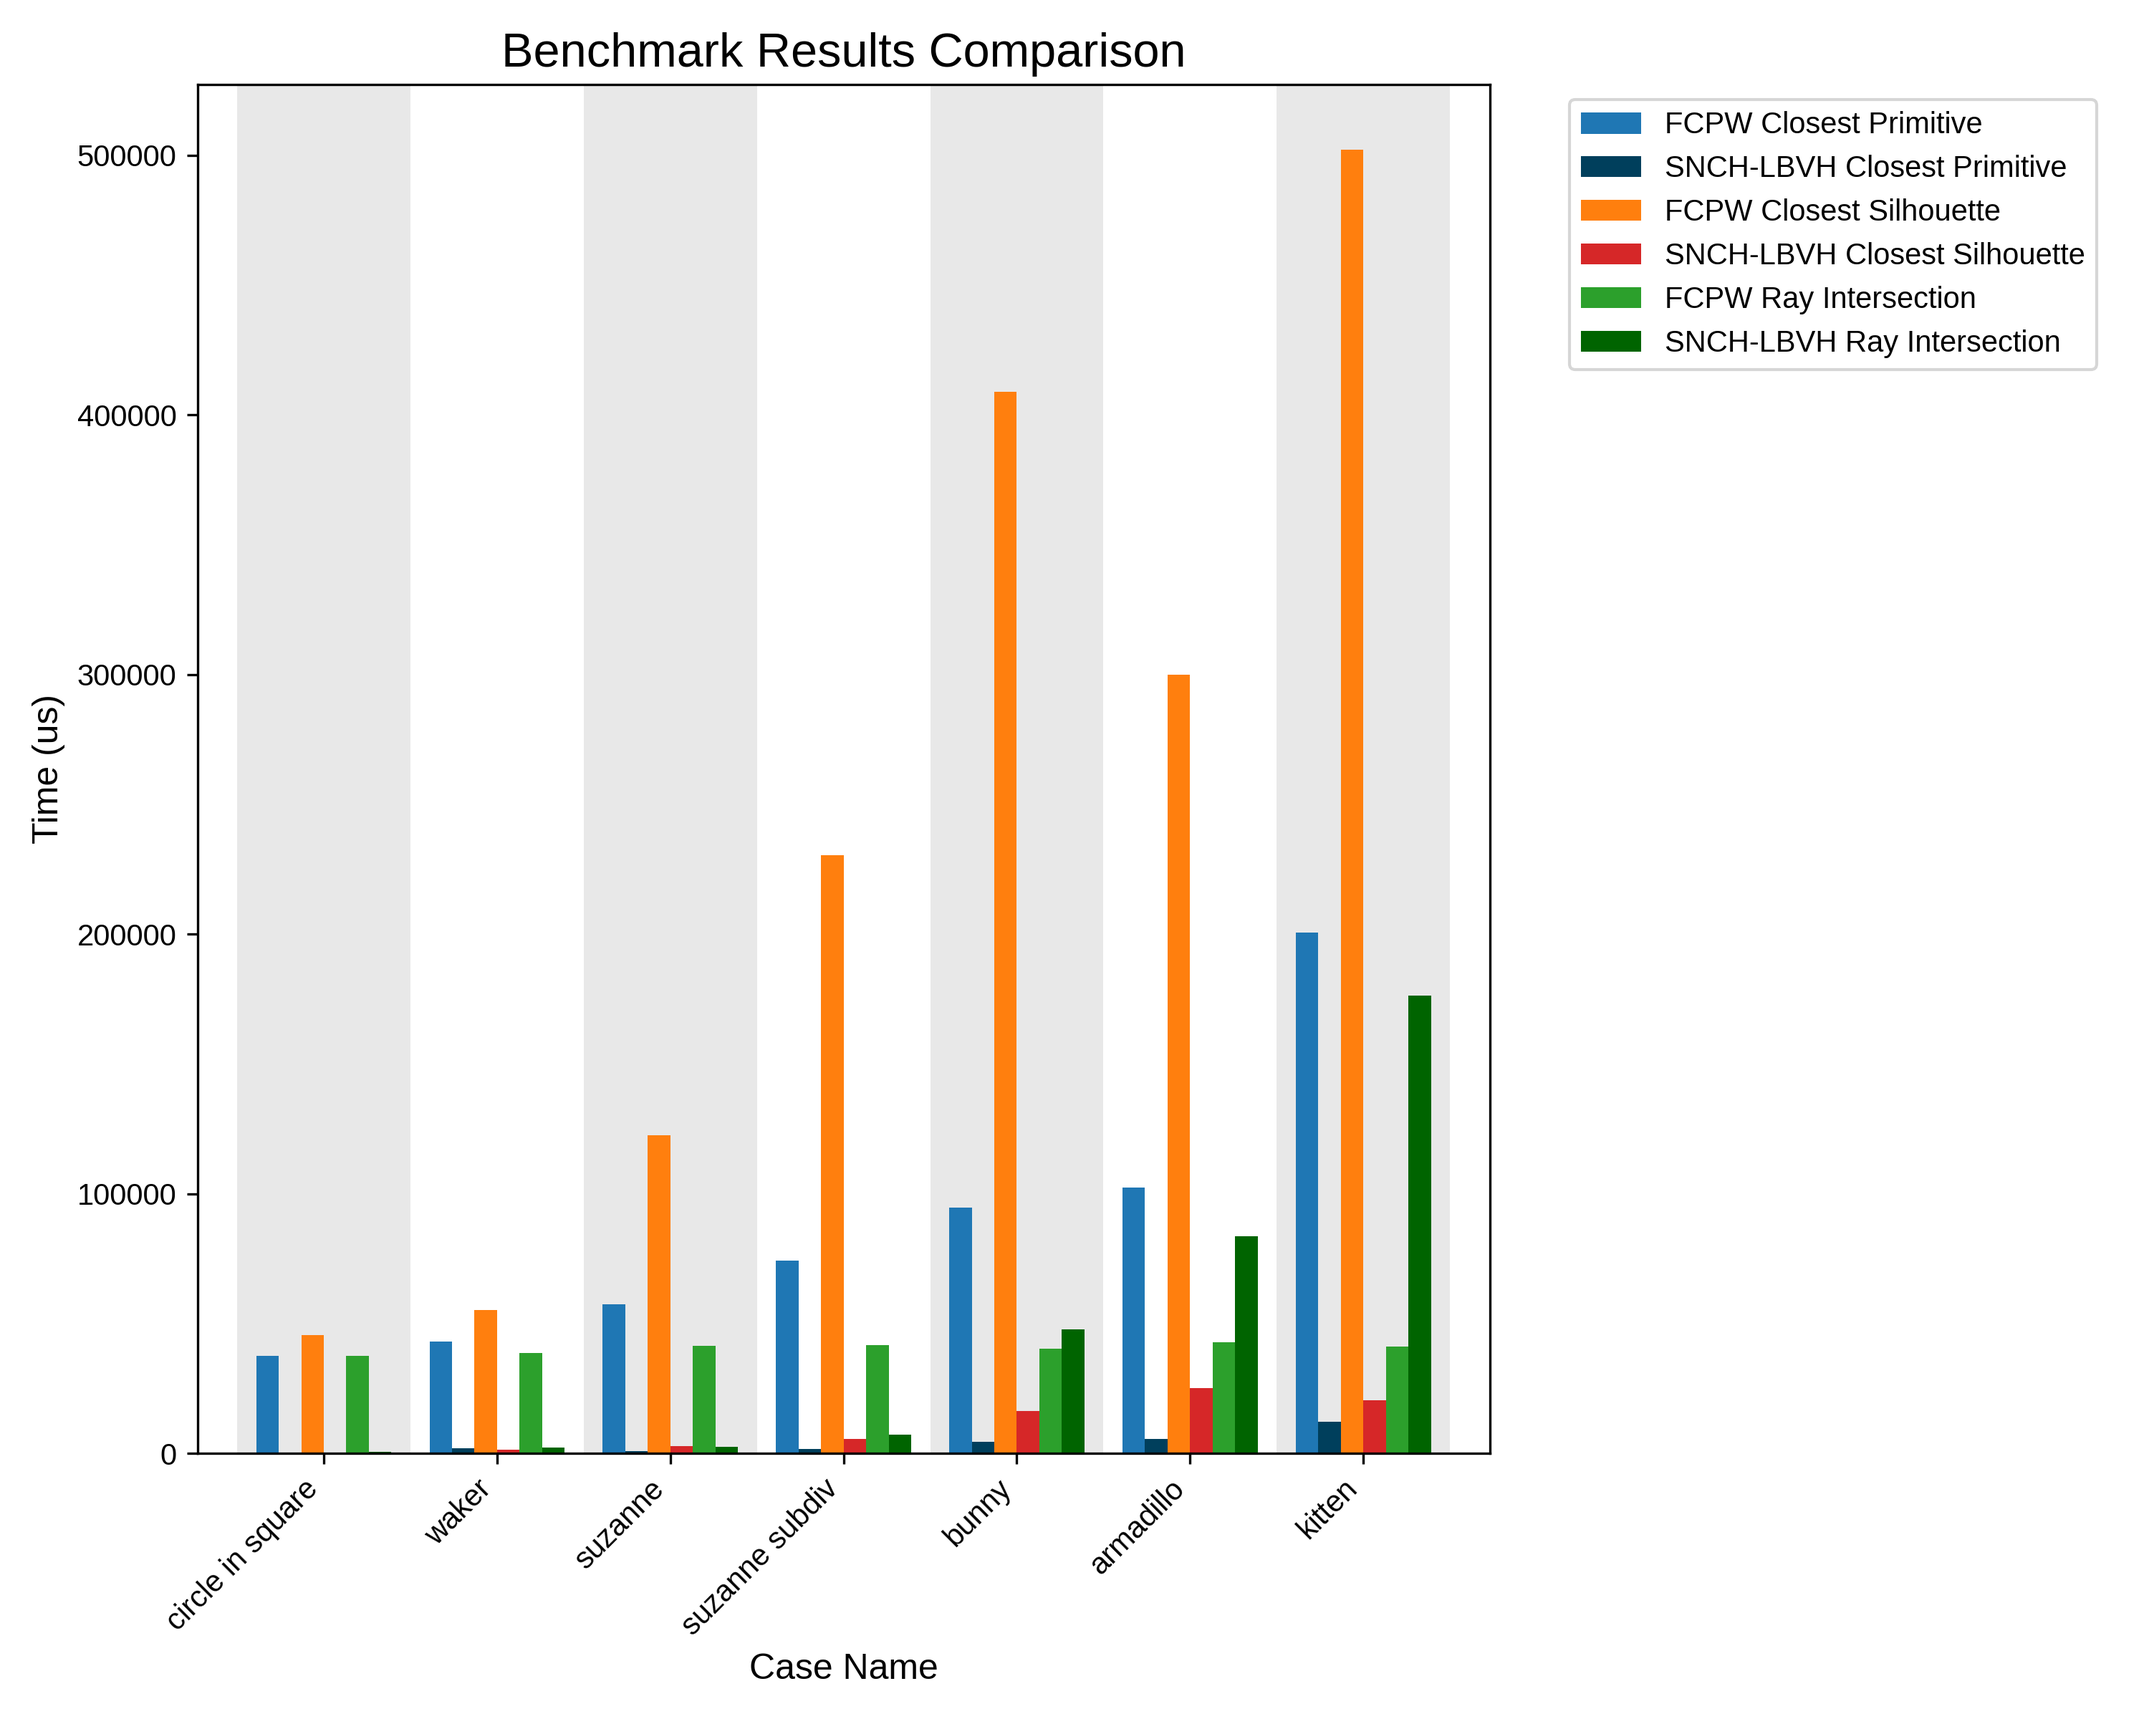
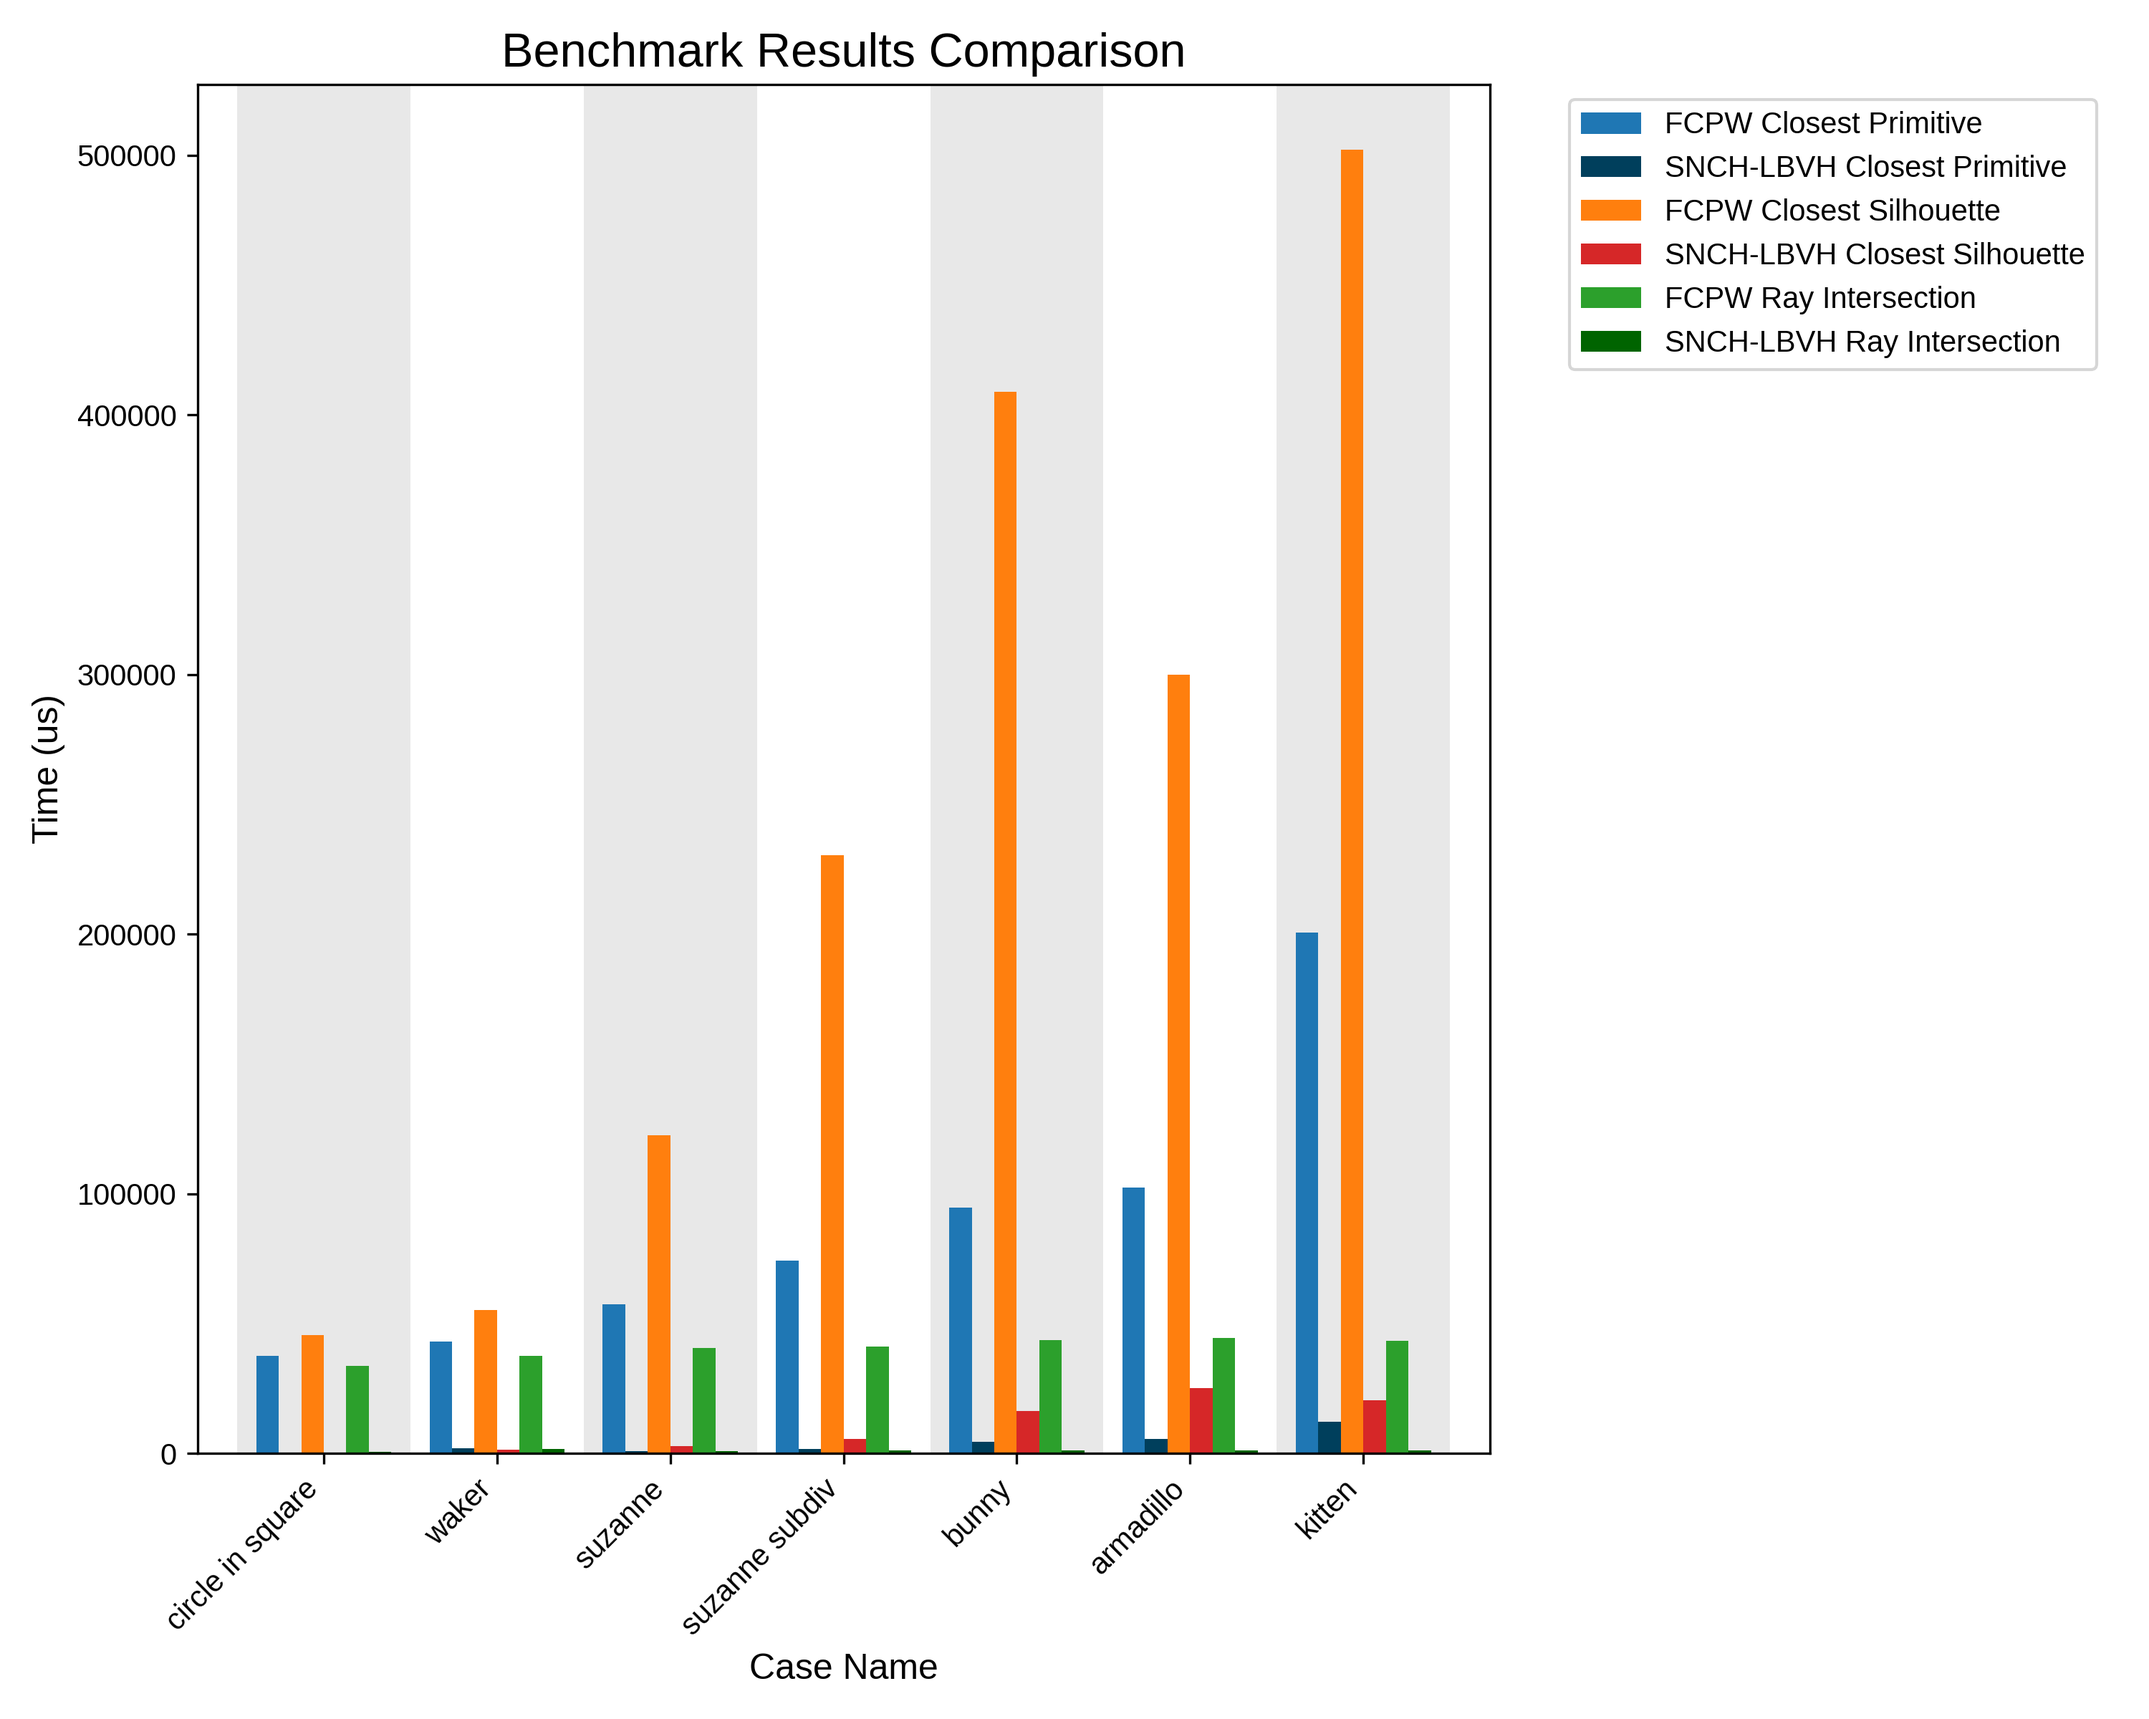
Performance issue resolved in ray intersection query. SNCH-LBVH is now overall faster than fcpw.

Changed region(s): [[0.651, 0.5625, 0.682, 0.8438], [0.558, 0.7188, 0.589, 0.8438], [0.465, 0.7812, 0.527, 0.8438]]

diff --git a/plot.py b/plot.py
@@ -11,50 +11,50 @@ FCPW closest primitive: 37625.3us
 SNCH-LBVH closest primitive: 273.656us
 FCPW closest silhouette: 45499.1us
 SNCH-LBVH closest silhouette: 302.406us
-FCPW ray intersection: 37644us
-SNCH-LBVH ray intersection: 539.031us
+FCPW ray intersection: 33643us
+SNCH-LBVH ray intersection: 581.438us
 Case: example/2d/waker.obj
 FCPW closest primitive: 43232.5us
 SNCH-LBVH closest primitive: 1983.84us
 FCPW closest silhouette: 55201.6us
 SNCH-LBVH closest silhouette: 1579.19us
-FCPW ray intersection: 38564us
-SNCH-LBVH ray intersection: 2353.84us
+FCPW ray intersection: 37637.3us
+SNCH-LBVH ray intersection: 1611.75us
 Case: example/3d/suzanne.obj
 FCPW closest primitive: 57444.8us
 SNCH-LBVH closest primitive: 925.25us
 FCPW closest silhouette: 122663us
 SNCH-LBVH closest silhouette: 2691.28us
-FCPW ray intersection: 41547us
-SNCH-LBVH ray intersection: 2467.28us
+FCPW ray intersection: 40679.3us
+SNCH-LBVH ray intersection: 972.75us
 Case: example/3d/suzanne_subdiv.obj
 FCPW closest primitive: 74262.2us
 SNCH-LBVH closest primitive: 1772.72us
 FCPW closest silhouette: 230439us
 SNCH-LBVH closest silhouette: 5577.19us
-FCPW ray intersection: 41751.2us
-SNCH-LBVH ray intersection: 7232.19us
+FCPW ray intersection: 41190.4us
+SNCH-LBVH ray intersection: 1087.69us
 Case: example/3d/bunny.obj
 FCPW closest primitive: 94780us
 SNCH-LBVH closest primitive: 4390.81us
 FCPW closest silhouette: 408931us
 SNCH-LBVH closest silhouette: 16327.9us
-FCPW ray intersection: 40203us
-SNCH-LBVH ray intersection: 47789.2us
+FCPW ray intersection: 43646.7us
+SNCH-LBVH ray intersection: 1168.62us
 Case: example/3d/armadillo.obj
 FCPW closest primitive: 102476us
 SNCH-LBVH closest primitive: 5574.84us
 FCPW closest silhouette: 299833us
 SNCH-LBVH closest silhouette: 25080.9us
-FCPW ray intersection: 42694.2us
-SNCH-LBVH ray intersection: 83677.4us
+FCPW ray intersection: 44601.4us
+SNCH-LBVH ray intersection: 1097.75us
 Case: example/3d/kitten.obj
 FCPW closest primitive: 200742us
 SNCH-LBVH closest primitive: 12288.3us
 FCPW closest silhouette: 502106us
 SNCH-LBVH closest silhouette: 20612.9us
-FCPW ray intersection: 41165.5us
-SNCH-LBVH ray intersection: 176338us
+FCPW ray intersection: 43241us
+SNCH-LBVH ray intersection: 1091.75us
 """
 
 cases = []

diff --git a/README.md b/README.md
@@ -1,6 +1,6 @@
 # SNCH-LBVH
 
-A simple and tiny implementation of the *Spatialized Normal Cone Hierarchy* (SNCH) based on a *Linear BVH* (LBVH) framework for Monte Carlo PDE research. A native alternative to the *[fcpw](https://github.com/rohan-sawhney/fcpw)* library on CUDA.
+A tiny and lightning-fast implementation of the *Spatialized Normal Cone Hierarchy* (SNCH) based on a *Linear BVH* (LBVH) framework for Monte Carlo PDE research. A native and faster alternative to the *[fcpw](https://github.com/rohan-sawhney/fcpw)* library on CUDA.
 
 This library supports three types of geometry queries:
 
@@ -20,15 +20,13 @@ This is a header-only library. The fcpw submodule is only used for benchmarking.
 
 ## Performance
 
-> Update (2024/11/8): performance issue resolved in closest primitive query & closest silhouette query, now SNCH-LBVH performs significantly faster than fcpw in all test cases in these 2 queries.
+The following is a performance comparison of GPU query functions of this library (SNCH-LBVH) and *fcpw* (using Vulkan backend on Linux) under RTX 4090 GPU. 
 
-The current implementation is quick-and-dirty and does not fully consider the locality of memory access. Therefore, although this library performs significantly better than the fcpw library in 2D and 3D cases with a low number of faces, it performs weaker than the fcpw library when the GPU memory occupancy is large. This issue has been identified and will be resolved in a subsequent update.
+**This library is faster than fcpw in all test cases and query types.**
 
 ![benchmark result](benchmark.png)
 
 ## Known Issues
-
-I am still organizing the code of this library. In addition to performance issues, there are some known issues:
 
 * CPU query part does not work.
 * Some functions have strange conversions from float3 to float4. The design here is not unified (considering the characteristics of GPU, all should be replaced with float4 in the future).
@@ -36,7 +34,6 @@ I am still organizing the code of this library. In addition to performance issue
 ## Roadmap
 
 * Fix known issues mentioned above.
-* More aggressive pruning strategies.
 * Consider memory locality.
 * Support more `.obj` face types (currently only supports triangle faces).
 
